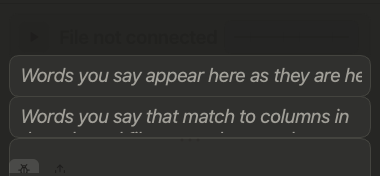
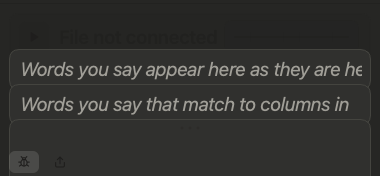
fix: closed log keeps the footer close; ring drains smoothly; stand-in nouns (ones, something, kind) are not part of a new value

diff --git a/quill/ui/main_window.py b/quill/ui/main_window.py
@@ -98,6 +98,9 @@ ROW_MAX_MINI = 66
 #: Space left below the "Log" heading when the log is minimized, in pixels.
 LOG_BOTTOM_MARGIN = 3
 
+#: The room the layout keeps at the bottom for the footer: its height (22), the gap above it and the margin below it.
+FOOTER_ROOM = 22 + 3 + LOG_BOTTOM_MARGIN
+
 #: Pixels the grip of the heard-words box sits below that box's bottom edge: over the middle of the gap to the box under it.
 ROW_GRIP_DROP = 5
 SIZE_SETTLE_MS = 400        # how long the window must stay still before its size is reported
@@ -106,7 +109,7 @@ MIN_WINDOW = (453, 383)      # the full window never gets smaller than this, and
 LOG_OPEN_HEIGHT = 120       # height of the log while it is open (until the user drags it to another)
 LOG_MIN_HEIGHT, LOG_MAX_HEIGHT = 60, 600     # how short and tall the user may drag the log
 #: Gap (px) between the log box and the footer under it.
-LOG_FOOTER_GAP = 0
+LOG_FOOTER_GAP = 3
 MIN_CONTENT_WIDTH = 405     # the content (everything but the side panel) is never dragged narrower than this
 
 #: Lines kept in the log before the oldest are dropped.
@@ -240,6 +243,7 @@ class MainWindow:
         self._stream_done = False            # the row ended: the next words start a fresh stream
         self._classify_words = lambda words: [WordMatch(False) for _ in words]
         self._sorting_animation: QVariantAnimation | None = None
+        self._countdown_share: float | None = None
         self._next_animation: QVariantAnimation | None = None             # the Next Row button easing in or out beside Start
         self._window: QMainWindow | None = None
         self.root: QWidget | None = None       # the widget that paints the background (set in setup)
@@ -458,11 +462,11 @@ class MainWindow:
         self.export_log_button = FooterButton("export", "Export the log to a text file", checkable=False)
         self.export_log_button.setVisible(False)                          # shown only while the log is open
         self.export_log_button.clicked.connect(self.export_log)
-        self.footer = QFrame()
+        self.footer = QFrame(central)                       # (placed by hand at the bottom: the layout only reserves its room)
         self.footer.setObjectName("windowFooter")
         self.footer.setProperty("keepMargins", True)
         footer_row = QHBoxLayout(self.footer)
-        footer_row.setContentsMargins(0, 3, 0, 0)
+        footer_row.setContentsMargins(0, 0, 0, 0)
         footer_row.setSpacing(6)
         footer_row.setProperty("keepSpacing", True)
         footer_row.addWidget(self.log_toggle, 0, Qt.AlignmentFlag.AlignLeft)
@@ -475,11 +479,11 @@ class MainWindow:
         self.log.document().setUndoRedoEnabled(False)
         log_block = QVBoxLayout()                           # the heading sits close to its box, in either spacing
         log_block.setContentsMargins(0, 0, 0, 0)
-        log_block.setSpacing(LOG_FOOTER_GAP)
+        log_block.setSpacing(0)
         log_block.setProperty("keepSpacing", True)
         log_block.addWidget(self.log)
-        log_block.addWidget(self.footer)
         layout.addLayout(log_block)
+        central.installEventFilter(_FooterPlacer(central, self.footer, self))
         layout.addStretch(0)         # soaks up spare height in the compact mini view (and while it grows back), so nothing drifts down
         self._spacer_index = layout.count() - 1
 
@@ -848,7 +852,19 @@ class MainWindow:
         """The footer is the last thing in the window: only a small margin may follow it."""
         if not self._view_mini and self._window is not None:
             m = self._layout.contentsMargins()
-            self._layout.setContentsMargins(m.left(), m.top(), m.right(), LOG_BOTTOM_MARGIN)
+            # The footer is not in the flow: the layout keeps its room at the bottom (its height, the gap above it, the margin
+            # below it), so the gap above it is the same small one whether the log is open or shut.
+            self._layout.setContentsMargins(m.left(), m.top(), m.right(), FOOTER_ROOM)
+            self.place_footer()
+
+    def place_footer(self) -> None:
+        """Put the footer at the bottom of the window, under whatever the layout ends with."""
+        if self._window is None or self._view_mini:
+            return
+        root, m = self.root, self._layout.contentsMargins()
+        height = self.footer.sizeHint().height()
+        self.footer.setGeometry(m.left(), root.height() - LOG_BOTTOM_MARGIN - height, root.width() - m.left() - m.right(), height)
+        self.footer.raise_()
 
     def _place_sorting_button(self, mini: bool) -> None:
         """In the mini view the Needs-sorting count sits in the status row; otherwise on its own row."""
@@ -1702,14 +1718,16 @@ class MainWindow:
         step(animation.startValue())
         animation.start()
 
-    def set_quiet_countdown(self, seconds: int | None) -> None:
-        """Show how many seconds are left before Quill stops listening because it is quiet (None hides it)."""
+    def set_quiet_countdown(self, seconds: int | None, share: float | None = None) -> None:
+        """Show how many seconds are left before Quill stops listening because it is quiet (None hides it); *share* is the exact
+        part of the quiet time left (0 to 1), which the ring empties by smoothly."""
         self._countdown_seconds = seconds
+        self._countdown_share = share
         self._render_countdown()
 
     def _render_countdown(self) -> None:
         seconds = self._countdown_seconds
-        self.toggle_button.set_countdown(seconds)
+        self.toggle_button.set_countdown(seconds, self._countdown_share)
 
     def add_demo_menu(self, scenarios) -> None:
         """Add a **Demo** menu with one entry per ``(label, action)`` (only in demo mode; see :mod:`quill.demo`)."""
@@ -1811,6 +1829,19 @@ class _SizeKeeper(QObject):
                 self._owner.restore_after_reshow()
             elif event.type() == QEvent.Type.Resize:
                 self._owner.fit_panel()
+        return False
+
+
+class _FooterPlacer(QObject):
+    """Keeps the footer at the bottom of the window as it is resized."""
+
+    def __init__(self, root: QWidget, footer: QWidget, owner: "MainWindow") -> None:
+        super().__init__(root)
+        self._owner = owner
+
+    def eventFilter(self, obj, event) -> bool:                      # noqa: N802 (Qt name)
+        if event.type() in (QEvent.Type.Resize, QEvent.Type.Show, QEvent.Type.LayoutRequest):
+            self._owner.place_footer()
         return False
 
 

diff --git a/tests/macos/test_window_polish.py b/tests/macos/test_window_polish.py
@@ -107,7 +107,7 @@ class TestConnectionChip(unittest.TestCase):
         _app.processEvents()
         button = w.toggle_button
         height = button.height()
-        self.assertEqual(height, button.HEIGHT)
+        self.assertEqual(height, button.minimumHeight())                  # (two lines of text tall; it does not stretch with the window)
         icon_x = button.icon_label.mapTo(button, button.icon_label.rect().topLeft()).x()
         text_x = button.text_pill.mapTo(button, button.text_pill.rect().topLeft()).x()
         screen_x = button.screen.mapTo(button, button.screen.rect().topLeft()).x()
@@ -154,14 +154,18 @@ class TestLogAtTheBottom(unittest.TestCase):
         self.assertEqual(lowest, w.log_toggle.mapTo(w.root, w.log_toggle.rect().bottomLeft()).y())
 
     def test_the_footer_keeps_the_same_small_margin_whether_the_log_is_open_or_not(self):
+        from quill.ui.main_window import FOOTER_ROOM, LOG_FOOTER_GAP
         w = window(log_collapsed=True)
-        self.assertEqual(w.root.layout().contentsMargins().bottom(), LOG_BOTTOM_MARGIN)
+        self.assertEqual(w.root.layout().contentsMargins().bottom(), FOOTER_ROOM)       # (the layout keeps the footer's room)
         w.log_toggle.click()
         _app.processEvents()
-        self.assertEqual(w.root.layout().contentsMargins().bottom(), LOG_BOTTOM_MARGIN)     # (the footer is last either way)
+        self.assertEqual(w.root.layout().contentsMargins().bottom(), FOOTER_ROOM)       # (the footer is last either way)
         w.log_toggle.click()
         _app.processEvents()
-        self.assertEqual(w.root.layout().contentsMargins().bottom(), LOG_BOTTOM_MARGIN)
+        self.assertEqual(w.root.layout().contentsMargins().bottom(), FOOTER_ROOM)
+        grid_bottom = w.row_table.mapTo(w.root, w.row_table.rect().bottomLeft()).y()
+        footer_top = w.footer.mapTo(w.root, w.footer.rect().topLeft()).y()
+        self.assertEqual(footer_top - grid_bottom - 1, LOG_FOOTER_GAP)                  # shut: as close to the grid as to the log
 
     def test_the_window_has_no_spare_space_under_the_log_heading(self):
         w = window(log_collapsed=True)
@@ -416,7 +420,7 @@ class TestResizingKeepsAlignment(unittest.TestCase):
         self.assertGreater(w.row_table.height(), small + 200)                 # the watched box grows
         bottom = w.log_toggle.mapTo(w.root, w.log_toggle.rect().bottomLeft()).y()
         self.assertEqual(w.root.height() - bottom - 1, LOG_BOTTOM_MARGIN)       # Log hugs the bottom edge
-        self.assertEqual(w.toggle_button.height(), w.toggle_button.HEIGHT)
+        self.assertEqual(w.toggle_button.height(), w.toggle_button.minimumHeight())
 
     def test_the_log_heading_stays_with_its_box_when_open(self):
         w = window(log_collapsed=False)

diff --git a/quill/app.py b/quill/app.py
@@ -244,8 +244,8 @@ class QuillApp:
         self._quiet_timer = QTimer()                  # stops listening after a spell of silence (see "auto_stop")
         self._quiet_timer.setSingleShot(True)
         self._quiet_timer.timeout.connect(self._quiet_for_too_long)
-        self._countdown_timer = QTimer()              # redraws the seconds left, four times a second
-        self._countdown_timer.setInterval(250)
+        self._countdown_timer = QTimer()              # redraws the seconds left and the ring (ten times a second, only while counting)
+        self._countdown_timer.setInterval(100)
         self._countdown_timer.timeout.connect(self._show_countdown)
         qapp.setWindowIcon(app_icon())               # the Dock / taskbar / window icon
         self.settings = settings
@@ -2333,8 +2333,9 @@ class QuillApp:
         if self._quiet_timer.isActive():
             limit = int(self.settings.preferences["auto_stop_seconds"])
             seconds = min(max(-(-self._quiet_timer.remainingTime() // 1000), 0), limit)   # rounded up, never above the setting
-            self.window.set_quiet_countdown(seconds)
-            self.sorting.set_voice_countdown(seconds)
+            share = max(0.0, min(1.0, self._quiet_timer.remainingTime() / (limit * 1000.0))) if limit else 0.0
+            self.window.set_quiet_countdown(seconds, share)
+            self.sorting.set_voice_countdown(seconds, share)
             if not self._countdown_timer.isActive():
                 self._countdown_timer.start()
         else:

diff --git a/quill/parser/fillers.py b/quill/parser/fillers.py
@@ -10,7 +10,8 @@ words: adjectives and nouns (and words that can be a condition or a status, such
 
 from __future__ import annotations
 
-#: Pronouns, articles, prepositions, conjunctions and other small words.
+#: Pronouns, articles, prepositions, conjunctions and other small words. The stand-ins for a noun ("ones", "something", "kind") are here
+#: too: "this ones teal" has the value "teal"; if they were not skipped they would be glued to it as "ones teal".
 _FUNCTION_WORDS = """
 a an the and or but nor so yet for of to in on at by from with without within into onto upon over under
 above below across along around about against between through during before after since until while as
@@ -21,6 +22,8 @@ such own same only just even also still already again once twice ever never alwa
 usually maybe perhaps probably actually really very quite rather pretty too enough almost nearly
 up down out off away back apart together forward ahead aside inside outside
 exactly mainly mostly roughly around approximately basically simply totally completely
+ones something anything everything nothing someone anyone everyone somebody anybody everybody
+whatever whichever whoever things kind kinds
 """.split()
 
 #: Everyday verbs and their forms (what a speaker says *about* the item, not a property of it).

diff --git a/quill/ui/listen_button.py b/quill/ui/listen_button.py
@@ -357,8 +357,12 @@ class ListenButton(QPushButton):
         self._show_text()
         self._style()
 
-    def set_countdown(self, seconds: int | None) -> None:
-        """Show the seconds left, "7s", and the ring that empties with them (None hides both)."""
+    def set_countdown(self, seconds: int | None, share: float | None = None) -> None:
+        """Show the seconds left, "7s", and the ring that empties with them (None hides both).
+
+        *share* (0 to 1) is how much of the quiet time is left, exactly; with it the ring empties smoothly instead of in whole
+        seconds. Without it the ring follows the whole seconds.
+        """
         self.countdown_label.setVisible(seconds is not None)
         if seconds is None:
             self._count_total = 0
@@ -366,7 +370,7 @@ class ListenButton(QPushButton):
         else:
             self._count_total = max(self._count_total, seconds, 1)
             self.countdown_label.setText(f"{seconds}s")
-            self.icon_label.ring = seconds / self._count_total
+            self.icon_label.ring = max(0.0, min(1.0, share)) if share is not None else seconds / self._count_total
         self.icon_label.update()
 
     def set_compact(self, compact: bool) -> None:

diff --git a/tests/test_phrase_parser.py b/tests/test_phrase_parser.py
@@ -187,6 +187,14 @@ class TestProseUseOfHeaderWords(unittest.TestCase):
     def test_list_column_word_after_determiner_still_a_field_word(self):
         self.assertEqual(self.parse("the type t-shirt").updates, {"Type": "T-Shirt"})
 
+    def test_stand_in_nouns_are_not_glued_to_the_new_value(self):
+        for said in ("this ones teal", "these ones teal", "something teal", "this kind teal"):
+            result = self.parse(said)
+            self.assertEqual([c.term for c in result.candidates], ["teal"], said)
+
+    def test_a_stand_in_noun_after_the_value_is_dropped_too(self):
+        self.assertEqual([c.term for c in self.parse("the teal ones").candidates], ["teal"])
+
     def test_filler_adverbs_are_not_values(self):
         result = self.parse("mainly mostly probably roughly t-shirt")
         self.assertEqual(result.candidates, [])

diff --git a/tests/test_window_batch.py b/tests/test_window_batch.py
@@ -208,6 +208,16 @@ class TestVoiceReactiveWave(unittest.TestCase):
             graph._tick()
         self.assertEqual(self.swing(graph), 0.0)
 
+    def test_the_ring_follows_the_exact_share_left_not_whole_seconds(self):
+        from quill.ui.listen_button import ListenButton
+        button = ListenButton()
+        button.set_countdown(7, 1.0)
+        self.assertEqual(button.icon_label.ring, 1.0)
+        button.set_countdown(7, 0.93)
+        self.assertAlmostEqual(button.icon_label.ring, 0.93)           # still "7s", but the ring has moved on
+        button.set_countdown(7)
+        self.assertAlmostEqual(button.icon_label.ring, 1.0)             # no share: whole seconds, as before
+
     def test_new_sound_enters_at_the_left_and_moves_right(self):
         graph = self.graph()
         graph.set_level(1.0)

diff --git a/quill/ui/sorting_window.py b/quill/ui/sorting_window.py
@@ -673,9 +673,9 @@ class SortingWindow:
         self.voice_status.setText(pillify(text))
         self.voice_status.setVisible(bool(text))
 
-    def set_voice_countdown(self, seconds: int | None) -> None:
-        """Show the seconds left before voice sorting stops because it is quiet (None hides it)."""
-        self.voice_button.set_countdown(seconds if self._voice_active else None)
+    def set_voice_countdown(self, seconds: int | None, share: float | None = None) -> None:
+        """Show the seconds left before voice sorting stops because it is quiet (None hides it); *share* is the exact part left."""
+        self.voice_button.set_countdown(seconds if self._voice_active else None, share)
 
     def _render_voice(self) -> None:
         self.voice_button.set_active(self._voice_active)

diff --git a/tests/test_side_panel_and_turns.py b/tests/test_side_panel_and_turns.py
@@ -3203,7 +3203,10 @@ class TestStartWaitsForTheFileThenListens(PanelApp):
     def test_it_gives_up_after_a_while_and_says_what_to_do(self):
         self.app.VIEWER_LOOKS = 3
         self.app.toggle_listening(True)
-        self.wait(1200)
+        for _ in range(40):                                   # (the looks run on a background thread: allow it time on a busy machine)
+            self.wait(150)
+            if "did not open" in self.app.window.log.toPlainText():
+                break
         text = self.app.window.log.toPlainText()
         self.assertIn("did not open", text)
         self.assertIn("then press Start", text)

diff --git a/quill/help/01-welcome.md b/quill/help/01-welcome.md
@@ -10,7 +10,7 @@
 2. **Press Start** (the wide button at the top).
 3. **Describe an item:** *"black t-shirt, large, good, appraisal thirty five"*. Watch your words appear in the box under the Start button.
 4. **Say "next row"** to save it and start the next.
-5. **Say "stop listening"** when you're done. If you forget, Quill stops by itself after 10 quiet seconds. The button's screen shows the seconds left (for example **7s**) and a green ring around the stop icon empties as they run out (change the time in [Settings](help:settings)).
+5. **Say "stop listening"** when you're done. If you forget, Quill stops by itself after 10 quiet seconds. The button's screen shows the seconds left (for example **7s**) and a green ring around the stop icon empties smoothly, not second by second, as they run out (change the time in [Settings](help:settings)).
 
 > 💡 First launch: allow the **microphone** (and on a Mac, **Automation** for your spreadsheet program). That's it. There's nothing to set up.
 
